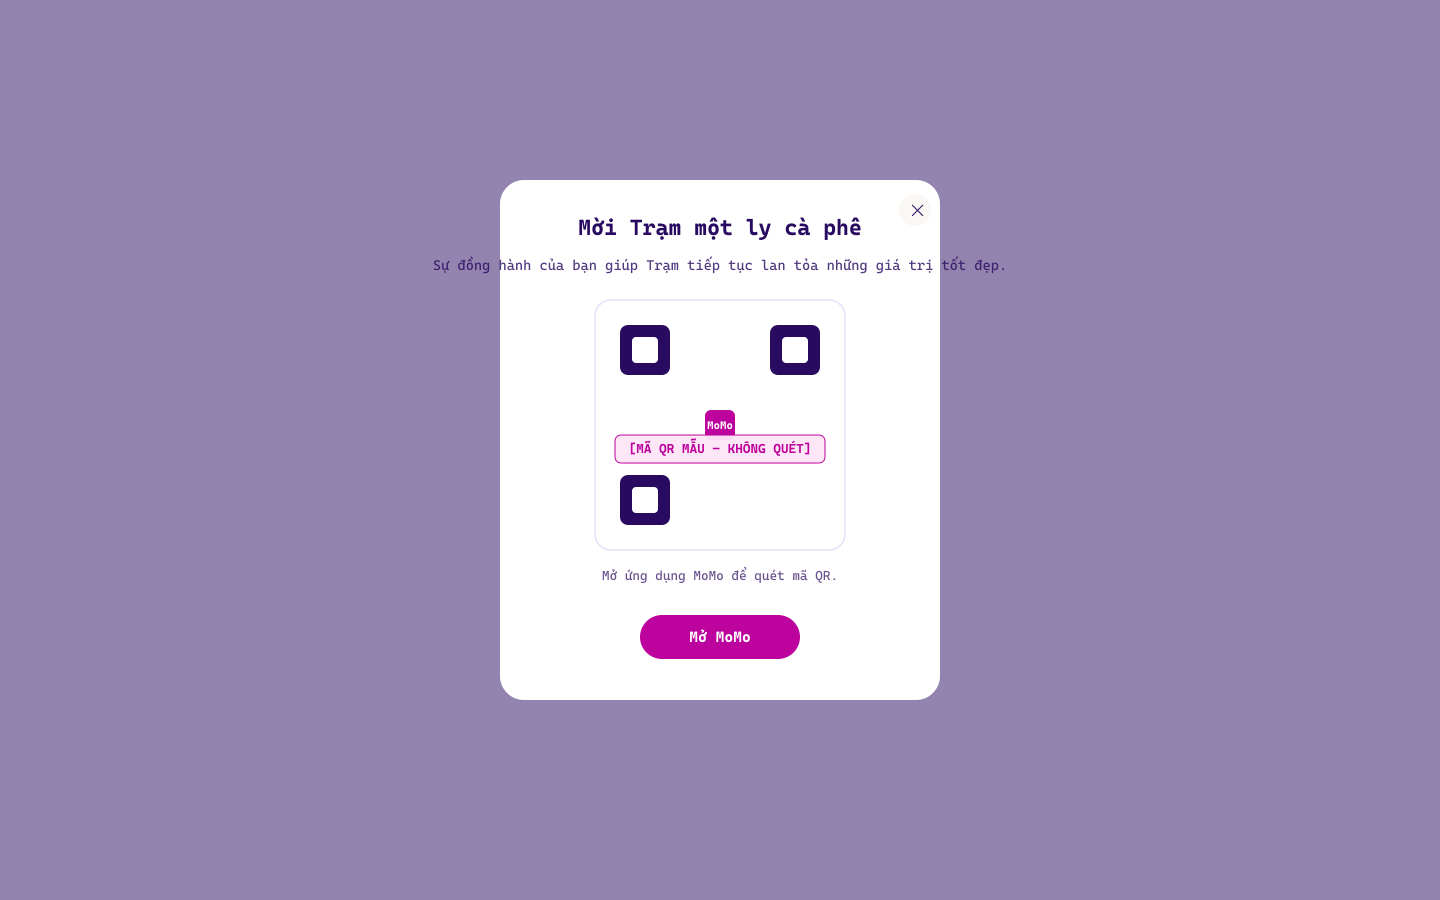
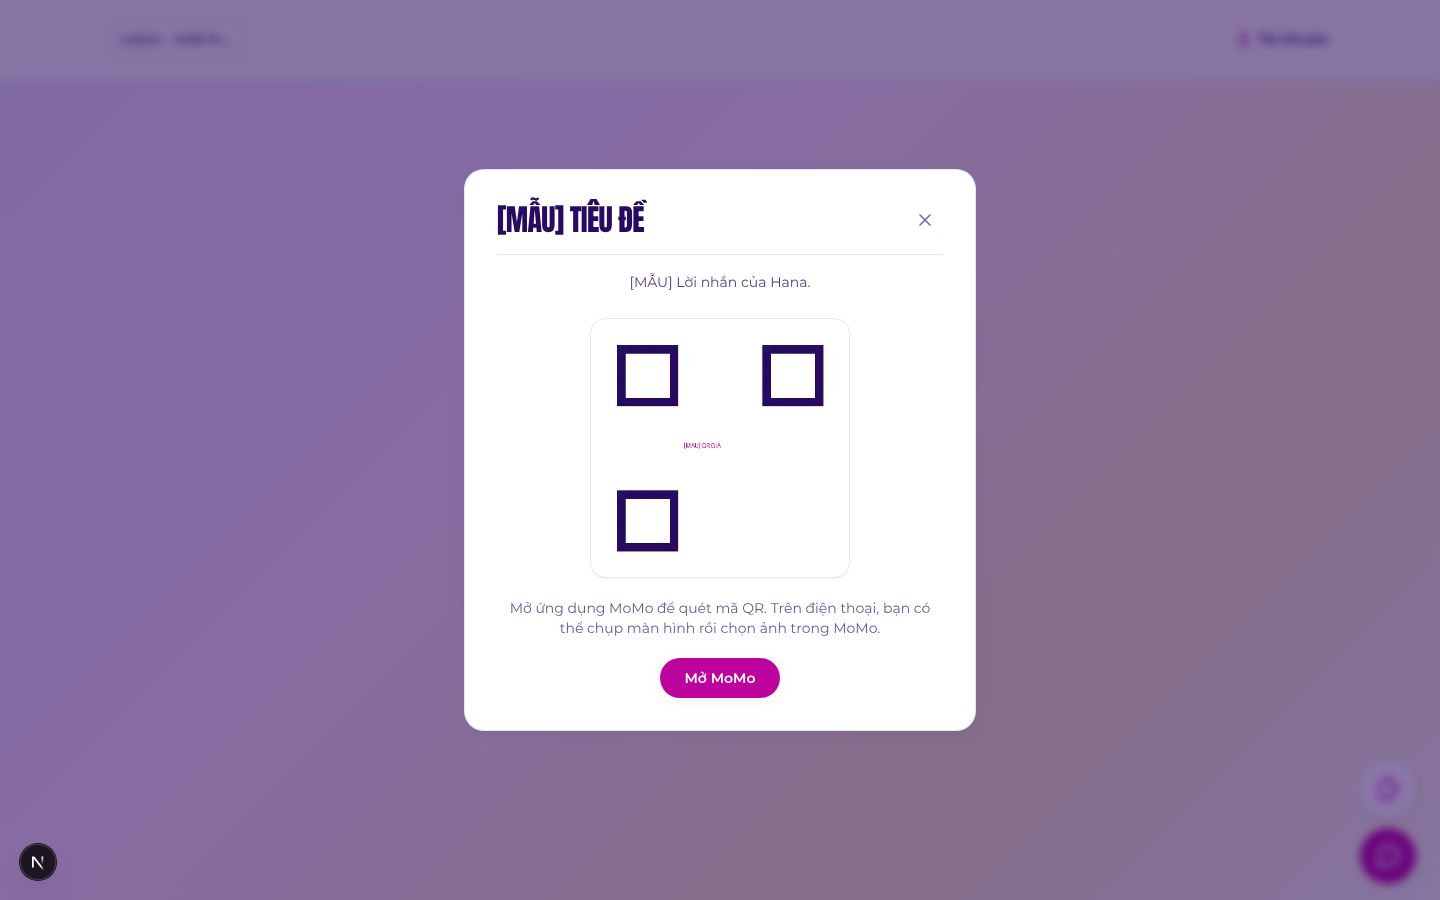
docs(site): CF-01 review, decisions CF-01c, real screenshots
Claude-Session: https://claude.ai/code/session_01Krq6WRtvEMxH8kuow1WK42

diff --git a/docs/tasks/reviews/CF-01.md b/docs/tasks/reviews/CF-01.md
@@ -1,0 +1,23 @@
+# Review CF-01 – Widget "ly cà phê" ủng hộ qua mã QR MoMo
+
+**Kết quả: ĐẠT sau CF-01c (Planning sửa 02/11).** Có migration `cf01_coffee_donation`. Có REVIEW-REQUIRED (access group `coffeeDonation`, validate `momoUrl`).
+
+## Đã kiểm
+
+- **CMS:** group `coffeeDonation` ở cuối tab Thanh toán, ngoài `.map` owner-only. `read` công khai, `update: isOwner`. Bật mà thiếu ảnh → lỗi tiếng Việt. `momoUrl` chỉ nhận `https://`. Field cũ của tab Thanh toán vẫn owner-only (có test REST).
+- **Dữ liệu shell:** chỉ trả `floatingCoffee` khi bật + có ảnh; `momoUrl` qua `safeHref` + chỉ `https://`.
+- **Giao diện:** nút trắng viền lavender, icon magenta, 48 / 56 px, `aria-label`, `motion-reduce`. Cột chung với Zalo (cà phê trên, Zalo dưới); tắt một nút thì nút kia xuống đáy. Ẩn ở `/habit/hoc`, `/habit/tracker`, `/eq-buddy/the`, `/eq-buddy/rut-the`, `/thanh-toan`, `/dung-thu`.
+- **Không chạm** `payments`, checkout, `habitDonation*`. Analytics `coffee_opened`, `coffee_momo_clicked` không props. Seed không bật.
+
+## Planning sửa (CF-01c)
+
+1. **Migration trùng EB-08:** tạo lại sau khi gộp `main` (xem decisions mục 4).
+2. **Modal bị navbar đè** (stacking context của cột `fixed`): đưa modal ra ngoài cột. Có test.
+3. Thay ảnh chụp bằng ảnh trang thật.
+
+## Kiểm
+
+- `tsc`, `eslint` sạch. `pnpm test` ĐỦ trên DB trống: 203 file, 2049 test qua.
+- Migration `up` / `down` / `up` trên DB trống.
+- E2E `coffee-widget.test.ts` qua cả 1440 / 375 (dev server, máy QA).
+- Xem tay 375 / 1440: modal nằm trên navbar, 2 nút không chồng nhau.
